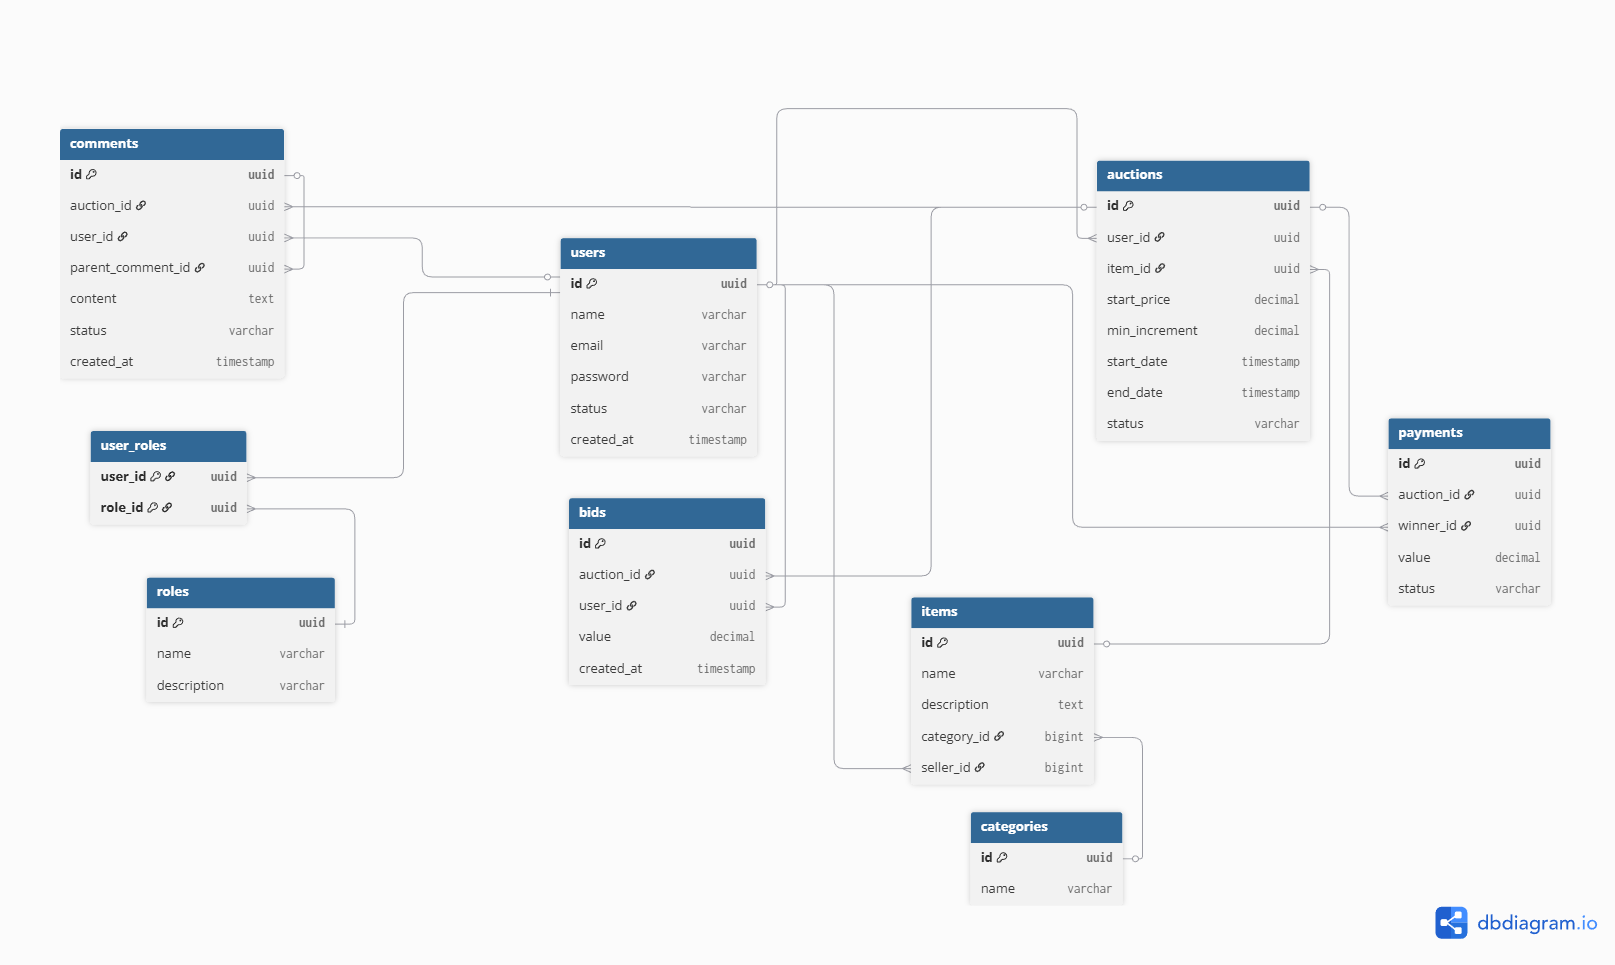
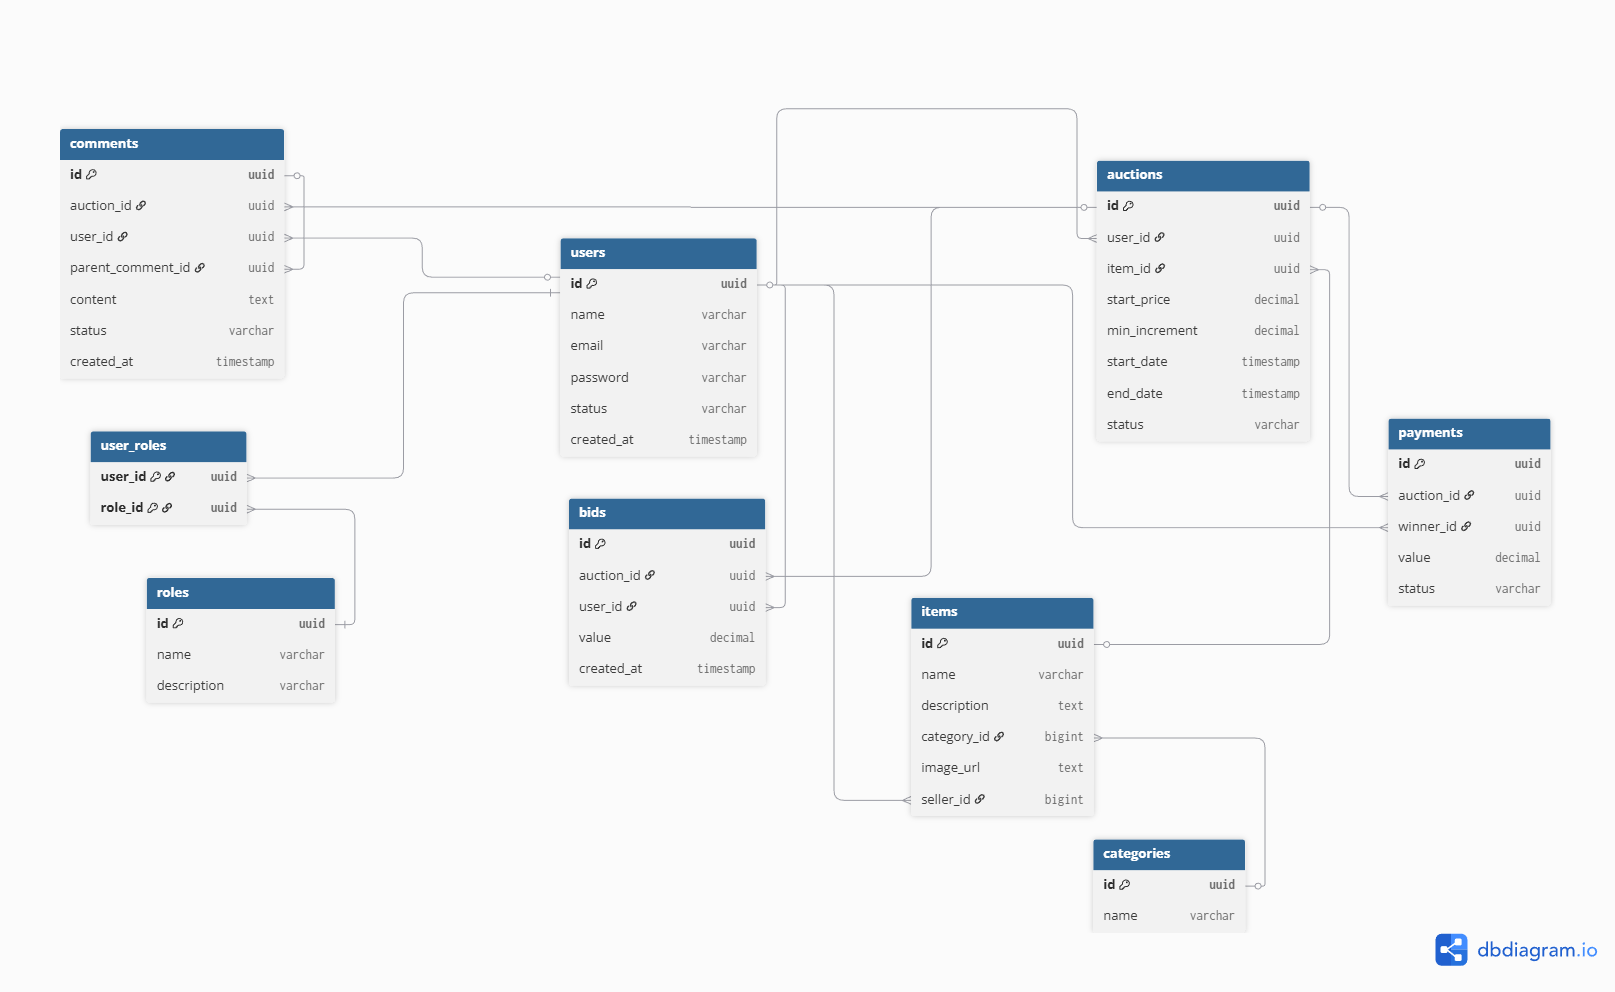
back feat: item, category entity

diff --git a/backend/leiloa-api/src/main/java/com/thiago/leiloa_api/domain/item/Item.java b/backend/leiloa-api/src/main/java/com/thiago/leiloa_api/domain/item/Item.java
@@ -1,0 +1,54 @@
+package com.thiago.leiloa_api.domain.item;
+
+
+import java.util.UUID;
+
+import com.thiago.leiloa_api.domain.category.Category;
+import com.thiago.leiloa_api.domain.user.User;
+
+import jakarta.persistence.Column;
+import jakarta.persistence.Entity;
+import jakarta.persistence.FetchType;
+import jakarta.persistence.GeneratedValue;
+import jakarta.persistence.GenerationType;
+import jakarta.persistence.Id;
+import jakarta.persistence.JoinColumn;
+import jakarta.persistence.ManyToOne;
+import jakarta.persistence.Table;
+import lombok.AllArgsConstructor;
+import lombok.Getter;
+import lombok.NoArgsConstructor;
+import lombok.Setter;
+
+
+@Entity
+@Table(name = "items")
+@Getter
+@Setter
+@AllArgsConstructor
+@NoArgsConstructor
+public class Item {
+
+    @Id
+    @GeneratedValue(strategy = GenerationType.UUID)
+    @Column(updatable = false, nullable = false)
+    private UUID id;
+
+    @Column(nullable = false)
+    private String name;
+
+    @Column(columnDefinition = "TEXT")
+    private String description;
+
+    @Column(name = "image_url", columnDefinition = "TEXT")
+    private String imageUrl;
+
+    @ManyToOne(fetch = FetchType.LAZY, optional = false)
+    @JoinColumn(name = "category_id")
+    private Category category;
+
+    @ManyToOne(fetch = FetchType.LAZY, optional = false)
+    @JoinColumn(name = "seller_id")
+    private User seller;
+}
+

diff --git a/backend/leiloa-api/src/main/java/com/thiago/leiloa_api/domain/category/Category.java b/backend/leiloa-api/src/main/java/com/thiago/leiloa_api/domain/category/Category.java
@@ -1,0 +1,33 @@
+package com.thiago.leiloa_api.domain.category;
+
+
+import java.util.UUID;
+
+import jakarta.persistence.Column;
+import jakarta.persistence.Entity;
+import jakarta.persistence.GeneratedValue;
+import jakarta.persistence.GenerationType;
+import jakarta.persistence.Id;
+import jakarta.persistence.Table;
+import lombok.AllArgsConstructor;
+import lombok.Getter;
+import lombok.NoArgsConstructor;
+import lombok.Setter;
+
+@Entity
+@Table(name = "categories")
+@Getter
+@Setter
+@AllArgsConstructor
+@NoArgsConstructor
+public class Category {
+
+    @Id
+    @GeneratedValue(strategy = GenerationType.UUID)
+    @Column(updatable = false, nullable = false)
+    private UUID id;
+
+    @Column(nullable = false, unique = true)
+    private String name;
+
+}

diff --git a/backend/leiloa-api/src/main/java/com/thiago/leiloa_api/service/AuthService.java b/backend/leiloa-api/src/main/java/com/thiago/leiloa_api/service/AuthService.java
@@ -19,6 +19,8 @@ import com.thiago.leiloa_api.dto.auth.RegisterUserDTO;
 import com.thiago.leiloa_api.repository.RoleRepository;
 import com.thiago.leiloa_api.repository.UserRepository;
 
+// Serviço de autenticação 
+
 @Service
 public class AuthService {
 
@@ -63,7 +65,7 @@ public class AuthService {
         return buildAuthResponse(user, token);
     }
 
-    // REGISTER
+    // REGISTER (já retorna o token ao registrar)
     public AuthResponseDTO register(RegisterUserDTO dto) {
 
         if (userRepository.existsByEmail(dto.getEmail())) {

diff --git a/backend/leiloa-api/src/main/java/com/thiago/leiloa_api/dto/item/ItemCreateDTO.java b/backend/leiloa-api/src/main/java/com/thiago/leiloa_api/dto/item/ItemCreateDTO.java
@@ -1,0 +1,25 @@
+package com.thiago.leiloa_api.dto.item;
+
+import java.util.UUID;
+
+import jakarta.validation.constraints.NotBlank;
+import jakarta.validation.constraints.NotNull;
+import lombok.Getter;
+import lombok.Setter;
+
+@Getter
+@Setter
+public class ItemCreateDTO {
+
+    @NotBlank(message = "Nome do item é obrigatório")
+    private String name;
+
+    private String description;
+
+    @NotNull(message = "Categoria é obrigatória")
+    private UUID categoryId;
+
+    private String imageUrl;
+
+
+}

diff --git a/backend/leiloa-api/src/main/java/com/thiago/leiloa_api/repository/ItemRepository.java b/backend/leiloa-api/src/main/java/com/thiago/leiloa_api/repository/ItemRepository.java
@@ -1,0 +1,19 @@
+package com.thiago.leiloa_api.repository;
+
+
+
+import java.util.List;
+import java.util.Optional;
+import java.util.UUID;
+
+import org.springframework.data.jpa.repository.JpaRepository;
+
+import com.thiago.leiloa_api.domain.item.Item;
+import com.thiago.leiloa_api.domain.user.User;
+
+public interface ItemRepository extends JpaRepository<Item, UUID> {
+
+    List<Item> findAllBySeller(User seller);
+
+    Optional<Item> findByIdAndSeller(UUID id, User seller);
+}

diff --git a/backend/leiloa-api/src/main/java/com/thiago/leiloa_api/dto/item/ItemResponseDTO.java b/backend/leiloa-api/src/main/java/com/thiago/leiloa_api/dto/item/ItemResponseDTO.java
@@ -1,0 +1,23 @@
+package com.thiago.leiloa_api.dto.item;
+
+
+import java.util.UUID;
+
+import lombok.AllArgsConstructor;
+import lombok.Getter;
+
+@Getter
+@AllArgsConstructor
+public class ItemResponseDTO {
+    private UUID id;
+    private String name;
+    private String description;
+    private String imageUrl;
+
+    private UUID categoryId;
+    private String categoryName;
+
+    private UUID sellerId;
+    private String sellerName;
+
+}

diff --git a/backend/leiloa-api/src/main/java/com/thiago/leiloa_api/repository/CategoryRepository.java b/backend/leiloa-api/src/main/java/com/thiago/leiloa_api/repository/CategoryRepository.java
@@ -1,0 +1,18 @@
+package com.thiago.leiloa_api.repository;
+
+
+import java.util.Optional;
+import java.util.UUID;
+
+import org.springframework.data.jpa.repository.JpaRepository;
+
+import com.thiago.leiloa_api.domain.category.Category;
+
+
+public interface CategoryRepository extends JpaRepository<Category, UUID> {
+
+    Optional<Category> findByName(String name);
+
+    boolean existsByName(String name);
+
+}

diff --git a/backend/leiloa-api/src/main/java/com/thiago/leiloa_api/repository/RoleRepository.java b/backend/leiloa-api/src/main/java/com/thiago/leiloa_api/repository/RoleRepository.java
@@ -1,11 +1,11 @@
 package com.thiago.leiloa_api.repository;
 
-import com.thiago.leiloa_api.domain.role.Role;
+import java.util.Optional;
+import java.util.UUID;
 
 import org.springframework.data.jpa.repository.JpaRepository;
 
-import java.util.Optional;
-import java.util.UUID;
+import com.thiago.leiloa_api.domain.role.Role;
 
 public interface RoleRepository extends JpaRepository<Role, UUID> {
 

diff --git a/backend/leiloa-api/src/main/java/com/thiago/leiloa_api/config/JwtAuthenticationFilter.java b/backend/leiloa-api/src/main/java/com/thiago/leiloa_api/config/JwtAuthenticationFilter.java
@@ -17,6 +17,7 @@ import jakarta.servlet.http.HttpServletRequest;
 import jakarta.servlet.http.HttpServletResponse;
 
 // Autenticar requisições com token JWT
+// Interceptar todas as requisições, ler o Header, validar JWT, carregar usuário e configurar contexto de segurança.
 
 @Component
 public class JwtAuthenticationFilter extends OncePerRequestFilter {

diff --git a/backend/leiloa-api/src/main/java/com/thiago/leiloa_api/config/SecurityConfig.java b/backend/leiloa-api/src/main/java/com/thiago/leiloa_api/config/SecurityConfig.java
@@ -15,6 +15,8 @@ import org.springframework.security.web.authentication.UsernamePasswordAuthentic
 
 import com.thiago.leiloa_api.service.CustomUserDetailsService;
 
+// Configurar Spring Security definindo endpoints públicos, autenticação stateless, filtro JWT, password encoder, etc.
+
 @Configuration
 public class SecurityConfig {
 

diff --git a/backend/leiloa-api/src/main/java/com/thiago/leiloa_api/dto/item/ItemUpdateDTO.java b/backend/leiloa-api/src/main/java/com/thiago/leiloa_api/dto/item/ItemUpdateDTO.java
@@ -1,0 +1,17 @@
+package com.thiago.leiloa_api.dto.item;
+
+import java.util.UUID;
+
+import lombok.Getter;
+import lombok.Setter;
+
+@Getter
+@Setter
+public class ItemUpdateDTO {
+
+    private String name;
+    private String description;
+    private UUID categoryId;
+    private String imageUrl;
+
+}

diff --git a/backend/leiloa-api/src/main/java/com/thiago/leiloa_api/config/DataInitializer.java b/backend/leiloa-api/src/main/java/com/thiago/leiloa_api/config/DataInitializer.java
@@ -9,6 +9,8 @@ import org.springframework.context.annotation.Configuration;
 import com.thiago.leiloa_api.domain.role.Role;
 import com.thiago.leiloa_api.repository.RoleRepository;
 
+// Inserir roles padrão apenas se não existirem no banco de dados
+
 @Configuration
 public class DataInitializer {
 
